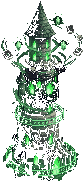
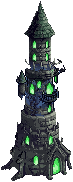
Ville des morts-vivants : la magie de la guilde animée
Les niveaux 4 et 5 de la guilde : la tour repeinte sans sa magie, et TownMagic dessine
autour d'elle, en pixels d'art, des anneaux de runes qui tournent, des rubans qui
montent en spirale, des cristaux qui flottent (niveaux 4 et 5) et des livres et des
crânes en orbite (niveau 5) ; ce qui passe derrière la tour est posé avant elle.
La magie de chaque place se décrit dans scene.json (« magic »).

diff --git a/godot/scripts/Game/TownMagic.cs b/godot/scripts/Game/TownMagic.cs
@@ -1,0 +1,157 @@
+using System;
+using System.Collections.Generic;
+using System.Linq;
+using Godot;
+using HoMM.Core;
+using static HoMM.Game.Ui;
+
+namespace HoMM.Game;
+
+/// <summary>
+/// La magie animée autour d'une tour de la scène d'une ville (<see cref="TownSceneMagic"/>) : des anneaux de runes qui
+/// tournent, des rubans verts qui montent en spirale, des cristaux qui flottent, des livres et des crânes en orbite.
+/// Deux couches par tour : celle de derrière (le côté loin de nous) est posée avant l'image de la tour, qui la cache
+/// en partie, celle de devant après. Dessinée en pixels d'art, comme la scène.
+/// </summary>
+public partial class TownMagic : Control
+{
+    private static readonly Color Edge = new(0.5f, 0.82f, 0.56f), Glyph = new(0.7f, 0.97f, 0.68f),
+        Band = new(0.16f, 0.4f, 0.22f, 0.75f), Ribbon = new(0.6f, 0.95f, 0.62f), RibbonTail = new(0.32f, 0.66f, 0.4f);
+    private const float Back = 0.55f;  // la clarté de ce qui passe derrière la tour
+
+    private readonly TownSceneMagic _magic;
+    private readonly bool _front;
+    private readonly Dictionary<string, Texture2D> _images;
+    private readonly HashSet<(int, int)> _drawn = new();
+    private float _time;
+
+    /// <param name="front">la couche de devant (sinon celle de derrière)</param>
+    /// <param name="image">l'image d'un nom de <see cref="TownSceneMagic"/> (cristal, livre…)</param>
+    public TownMagic(TownSceneMagic magic, bool front, Func<string, Texture2D> image)
+    {
+        (_magic, _front) = (magic, front);
+        _images = (magic.Floats ?? new()).Select(f => f.Image).Concat(magic.Orbiters ?? new()).Distinct()
+            .ToDictionary(n => n, image);
+        MouseFilter = MouseFilterEnum.Ignore;
+    }
+
+    public override void _Process(double delta)
+    {
+        _time += (float)delta;
+        QueueRedraw();
+    }
+
+    public override void _Draw()
+    {
+        _drawn.Clear();
+        foreach (var ring in _magic.Rings ?? new())
+            Ring(ring[0], ring[1], ring[2], ring[3], ring[4]);
+        foreach (var (swirl, n) in (_magic.Swirls ?? new()).Select((s, n) => (s, n)))
+            Swirl(swirl, n);
+        if (_front)
+            foreach (var (f, n) in (_magic.Floats ?? new()).Select((f, n) => (f, n)))
+            {
+                // le cristal monte et descend d'un pixel ou deux, sa lueur respire
+                float bob = MathF.Round(1.5f * MathF.Sin(_time * 1.6f + n * 2.1f));
+                float glow = 0.92f + 0.14f * MathF.Sin(_time * 2.3f + n * 1.3f);
+                Image(_images[f.Image], new Vector2(f.X, f.Y + bob), new Color(glow, glow, glow));
+            }
+        if (_magic.Orbit is { } o && _magic.Orbiters is { Count: > 0 } orbiters)
+            for (int k = 0; k < orbiters.Count; k++)
+            {
+                float a = _time * MathF.Tau / 16f + k * MathF.Tau / orbiters.Count;
+                bool front = MathF.Sin(a) > 0;
+                if (front != _front)
+                    continue;
+                var texture = _images[orbiters[k]];
+                var at = new Vector2(MathF.Round(o[0] + o[2] * MathF.Cos(a)), MathF.Round(o[1] + o[3] * MathF.Sin(a)))
+                         - (texture.GetSize() / 2).Round();
+                float light = front ? 1 : 0.7f;
+                Image(texture, at, new Color(light, light, light));
+            }
+    }
+
+    /// <summary>
+    /// Un anneau de runes : une bande elliptique, un trait clair en haut et en bas, des runes entre les deux qui défilent
+    /// tout autour ; la moitié du haut de l'ellipse est derrière la tour.
+    /// </summary>
+    private void Ring(int cx, int cy, int rx, int ry, int h)
+    {
+        int samples = (int)(MathF.Tau * Math.Max(rx, ry) * 2);
+        float pulse = 0.85f + 0.15f * MathF.Sin(_time * 1.7f);
+        for (int i = 0; i < samples; i++)
+        {
+            float a = i * MathF.Tau / samples;
+            bool front = MathF.Sin(a) > 0;
+            if (front != _front)
+                continue;
+            int x = (int)MathF.Round(cx + rx * MathF.Cos(a));
+            int top = (int)MathF.Round(cy + ry * MathF.Sin(a) - h / 2f);
+            float light = (front ? 1 : Back) * pulse;
+            // les runes : des cellules de 3 pixels le long de l'anneau, allumées au hasard, qui tournent
+            float along = a * (rx + ry) / 2 - _time * 6;
+            int cell = (int)MathF.Floor(along / 3);
+            for (int row = 0; row < h; row++)
+            {
+                Color c = row == 0 || row == h - 1 ? Edge
+                    : Noise(cell, row * 7 + (int)MathF.Floor(along) % 3) > 0.45f ? Glyph : Band;
+                Dot(x, top + row, Lit(c, light));
+            }
+        }
+    }
+
+    /// <summary>
+    /// Des rubans de magie qui montent en spirale autour de la tour, plus larges en bas ; chacun naît en bas, monte en
+    /// tournant, sa traîne pâlit derrière lui, et il s'efface en haut.
+    /// </summary>
+    private void Swirl(int[] s, int n)
+    {
+        int cx = s[0], top = s[1], bottom = s[2];
+        float rTop = s[3], rBottom = s[4], height = bottom - top, length = 44;
+        const int Wisps = 4;
+        for (int w = 0; w < Wisps; w++)
+        {
+            float head = bottom - ((_time * 11 + w * (height + length) / Wisps + n * 13) % (height + length));
+            float phase = w * MathF.Tau / Wisps + n;
+            for (float d = 0; d < length; d += 0.5f)
+            {
+                float y = head + d;
+                if (y < top || y > bottom)
+                    continue;
+                float f = (y - top) / height;
+                float r = rTop + (rBottom - rTop) * f;
+                float a = y * 0.16f + _time * 1.1f + phase;
+                bool front = MathF.Sin(a) > 0;
+                if (front != _front)
+                    continue;
+                // pâle aux deux bouts, et près du haut et du bas de la tour
+                float fade = (1 - d / length) * MathF.Min(1, (y - top) / 8) * MathF.Min(1, (bottom - y) / 8);
+                var c = Lit((d < length * 0.4f ? Ribbon : RibbonTail) with { A = fade }, front ? 1 : Back);
+                // deux pixels de large : le second, plus pâle, sous le premier
+                int x = (int)MathF.Round(cx + r * MathF.Cos(a)), py = (int)MathF.Round(y);
+                Dot(x, py, c);
+                Dot(x, py + 1, c with { A = c.A * 0.55f });
+            }
+        }
+    }
+
+    private static Color Lit(Color c, float light) => new(c.R * light, c.G * light, c.B * light, c.A);
+
+    /// <summary>Un pixel d'art, une seule fois par image (deux bouts d'anneau tombés au même endroit ne s'ajoutent pas).</summary>
+    private void Dot(int x, int y, Color c)
+    {
+        if (c.A > 0.02f && _drawn.Add((x, y)))
+            DrawRect(new Rect2(new Vector2(x, y) * ArtScale, new Vector2(ArtScale, ArtScale)), c);
+    }
+
+    private void Image(Texture2D texture, Vector2 at, Color modulate) =>
+        DrawTextureRect(texture, new Rect2(at * ArtScale, texture.GetSize() * ArtScale), false, modulate);
+
+    /// <summary>Un nombre entre 0 et 1, toujours le même pour les mêmes entrées.</summary>
+    private static float Noise(int seed, int n)
+    {
+        uint h = (uint)(seed * 374761393 + n * 668265263);
+        h = (h ^ (h >> 13)) * 1274126177;
+        return ((h ^ (h >> 16)) & 0xFFFF) / 65535f;
+    }
+}

diff --git a/godot/scripts/Core/TownScene.cs b/godot/scripts/Core/TownScene.cs
@@ -7,11 +7,27 @@ namespace HoMM.Core;
 /// <summary>
 /// La place d'un bâtiment dans la scène d'une ville : le coin haut-gauche de son image, sa profondeur (distance à la
 /// caméra : les plus loin dessinés d'abord), et s'il y en a, le coin de son ombre et du décor qui passe devant lui, et
-/// des runes qui flottent autour (la guilde des mages : [x, y, n], le coin de chacune et son image rune-&lt;n&gt;.png).
-/// En pixels d'art de la scène.
+/// des runes qui flottent autour (la guilde des mages : [x, y, n], le coin de chacune et son image rune-&lt;n&gt;.png), et la
+/// magie que le jeu anime autour de lui (<see cref="TownSceneMagic"/>). En pixels d'art de la scène.
 /// </summary>
 public sealed record TownScenePlace(string Id, int X, int Y, double Depth, int? ShadowX = null, int? ShadowY = null,
-    int? FrontX = null, int? FrontY = null, List<int[]>? Runes = null);
+    int? FrontX = null, int? FrontY = null, List<int[]>? Runes = null, TownSceneMagic? Magic = null);
+
+/// <summary>
+/// La magie animée autour d'une tour (la guilde des morts-vivants), en pixels d'art de la scène ; ce qui passe derrière
+/// la tour est dessiné avant elle, le reste après.
+/// <list type="bullet">
+/// <item>Rings : des anneaux de runes qui tournent, [cx, cy, rx, ry, h] (le centre, les deux rayons, la hauteur de la bande).</item>
+/// <item>Swirls : des rubans qui montent en spirale, [cx, haut, bas, rayon en haut, rayon en bas].</item>
+/// <item>Floats : des images qui flottent sur place (les cristaux), [x, y] et leur image.</item>
+/// <item>Orbit, Orbiters : des images qui tournent autour, [cx, cy, rx, ry], et leurs images (livres, crânes).</item>
+/// </list>
+/// </summary>
+public sealed record TownSceneMagic(List<int[]>? Rings = null, List<int[]>? Swirls = null, List<TownSceneFloat>? Floats = null,
+    int[]? Orbit = null, List<string>? Orbiters = null);
+
+/// <summary>Une image qui flotte sur place : son coin et son nom (sans « .png »).</summary>
+public sealed record TownSceneFloat(int X, int Y, string Image);
 
 /// <summary>
 /// La scène d'une ville vue de face (art/towns/&lt;faction&gt;/scene.json, écrit par tools/art/ville_scene.py) : un fond,

diff --git a/godot/scripts/Game/TownScreen.cs b/godot/scripts/Game/TownScreen.cs
@@ -546,6 +546,9 @@ public partial class TownScreen : CanvasLayer
                 ShowHome(home);
                 home = null;
             }
+            // sa magie animée : ce qui passe derrière lui d'abord, le reste après lui
+            if (place.Magic != null)
+                _sceneLayer.AddChild(new TownMagic(place.Magic, false, n => Art.Get(folder + n)!));
             var sprite = new TownSceneSprite(Art.GetImage(folder + place.Id)!)
             {
                 Position = new Vector2(place.X, place.Y) * ArtScale, TooltipText = Texts.BuildingTooltip(town, building),
@@ -558,6 +561,8 @@ public partial class TownScreen : CanvasLayer
                 Layer(place.Id + "-devant", place.FrontX.Value, place.FrontY!.Value);
             foreach (var (rune, n) in (place.Runes ?? new()).Select((r, n) => (r, n)))
                 Float(Layer($"rune-{rune[2]}", rune[0], rune[1]), n);
+            if (place.Magic != null)
+                _sceneLayer.AddChild(new TownMagic(place.Magic, true, n => Art.Get(folder + n)!));
         }
         if (home != null)
             ShowHome(home);

diff --git a/tools/art/METHODE.md b/tools/art/METHODE.md
@@ -784,6 +784,16 @@ Architect » : 10 000 générations ; une retouche (`retoucher`) en coûte une d
   changés en ceux de `buildings.json` ; la profondeur suit le bas de chaque boîte. Le fort et la citadelle gardaient
   des arbres bleus du concept derrière leurs murs, et leur cour était un trou : découpés eux aussi par PixelLab (sans
   `--fond`), la cour prend ses couleurs. Toujours vérifier **chaque étape** sur le nouveau fond, pas seulement la dernière.
+- **Animer la magie de la guilde** (`TownMagic`) : PixelLab repeint la tour **sans** sa magie (« remove the floating
+  crystals, swirls, rune rings… and paint the tower stones behind them »), puis la découpe (sans `--fond`) ; la tour
+  repeinte est poussée de 2 px : la recaler. La poser sur le **fond vide**, pas sur l'ancienne image (sa magie revient
+  par les trous). Le jeu dessine le reste en pixels d'art : anneaux de runes (une bande elliptique, la moitié du haut
+  derrière la tour), rubans en spirale, cristaux découpés qui flottent (sans leur lueur sombre peinte sur le ciel),
+  livres et crânes en orbite **dessinés à la main** (8 px : ceux de la peinture étaient illisibles seuls). Voir
+  l'animation dans le jeu : `--write-movie <dossier>/f.png --fixed-fps 10 --quit-after 100` (avec `--town`, une
+  `--capture` lointaine : `--capture-delay=60`), puis un GIF.
+- La forge des morts-vivants est **un décor** peint dans le fond (le jeu n'a pas de forge) ; sa fumée, une cheminée de
+  la scène (`smoke`), dessinée par `TownSmoke`.
 - Coût du tout : environ 1 € de concept et de fond, le reste en générations de l'abonnement (quelques centaines).
 
 ## Ponts de la carte (Retro Diffusion, 2026-11-15)
